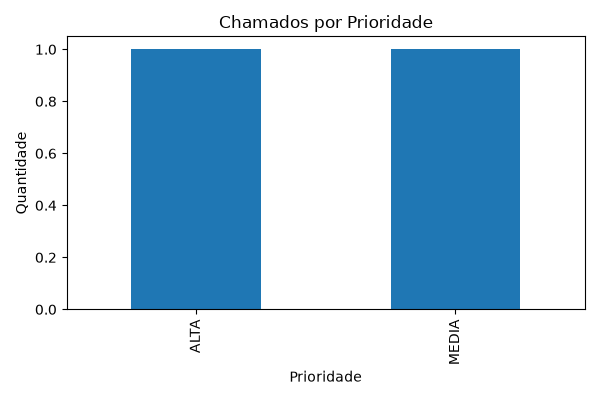
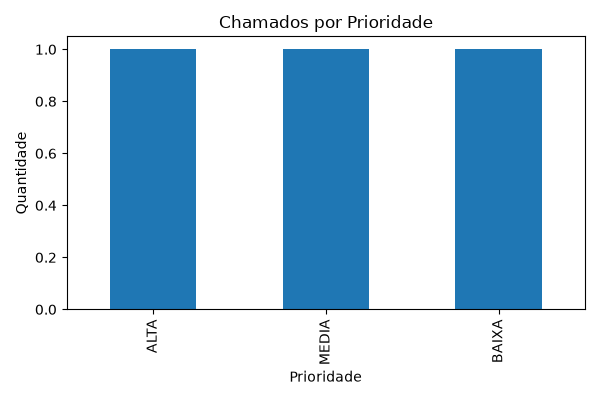
fix: corrige horario para Brasilia(BR)

diff --git a/app.py b/app.py
@@ -1,6 +1,7 @@
 from flask import Flask, render_template, request, redirect, session, jsonify, send_from_directory
 import sqlite3
 import os
+from datetime import datetime, timedelta
 import pandas as pd
 import matplotlib
 
@@ -25,6 +26,10 @@ def criar_pastas():
 
 def conectar_banco():
     return sqlite3.connect(os.path.join(BASE_DIR, 'database.db'))
+
+
+def data_hora_brasil():
+    return (datetime.utcnow() - timedelta(hours=3)).strftime('%Y-%m-%d %H:%M:%S')
 
 
 def criar_banco():
@@ -262,12 +267,13 @@ def salvar_chamado():
             imagem
         )
         VALUES
-        (?, ?, ?, ?, datetime('now', 'localtime'), ?, ?)
+        (?, ?, ?, ?, ?, ?, ?)
     """, (
         titulo,
         descricao,
         prioridade,
         'ABERTO',
+        data_hora_brasil(),
         usuario_id,
         nome_imagem
     ))
@@ -277,11 +283,12 @@ def salvar_chamado():
     cursor.execute("""
         INSERT INTO timeline
         (chamado_id, usuario_id, acao, data_acao)
-        VALUES (?, ?, ?, datetime('now', 'localtime'))
+        VALUES (?, ?, ?, ?)
     """, (
         chamado_id,
         usuario_id,
-        'Chamado criado'
+        'Chamado criado',
+        data_hora_brasil()
     ))
 
     conn.commit()
@@ -407,21 +414,23 @@ def comentar_chamado(chamado_id):
     cursor.execute("""
         INSERT INTO comentarios
         (chamado_id, usuario_id, comentario, data_comentario)
-        VALUES (?, ?, ?, datetime('now', 'localtime'))
+        VALUES (?, ?, ?, ?)
     """, (
         chamado_id,
         session['usuario_id'],
-        comentario
+        comentario,
+        data_hora_brasil()
     ))
 
     cursor.execute("""
         INSERT INTO timeline
         (chamado_id, usuario_id, acao, data_acao)
-        VALUES (?, ?, ?, datetime('now', 'localtime'))
+        VALUES (?, ?, ?, ?)
     """, (
         chamado_id,
         session['usuario_id'],
-        'Novo comentário adicionado'
+        'Novo comentário adicionado',
+        data_hora_brasil()
     ))
 
     conn.commit()
@@ -449,11 +458,12 @@ def atualizar_status(id, status):
     cursor.execute("""
         INSERT INTO timeline
         (chamado_id, usuario_id, acao, data_acao)
-        VALUES (?, ?, ?, datetime('now', 'localtime'))
+        VALUES (?, ?, ?, ?)
     """, (
         id,
         session['usuario_id'],
-        f'Status alterado para {status}'
+        f'Status alterado para {status}',
+        data_hora_brasil()
     ))
 
     conn.commit()